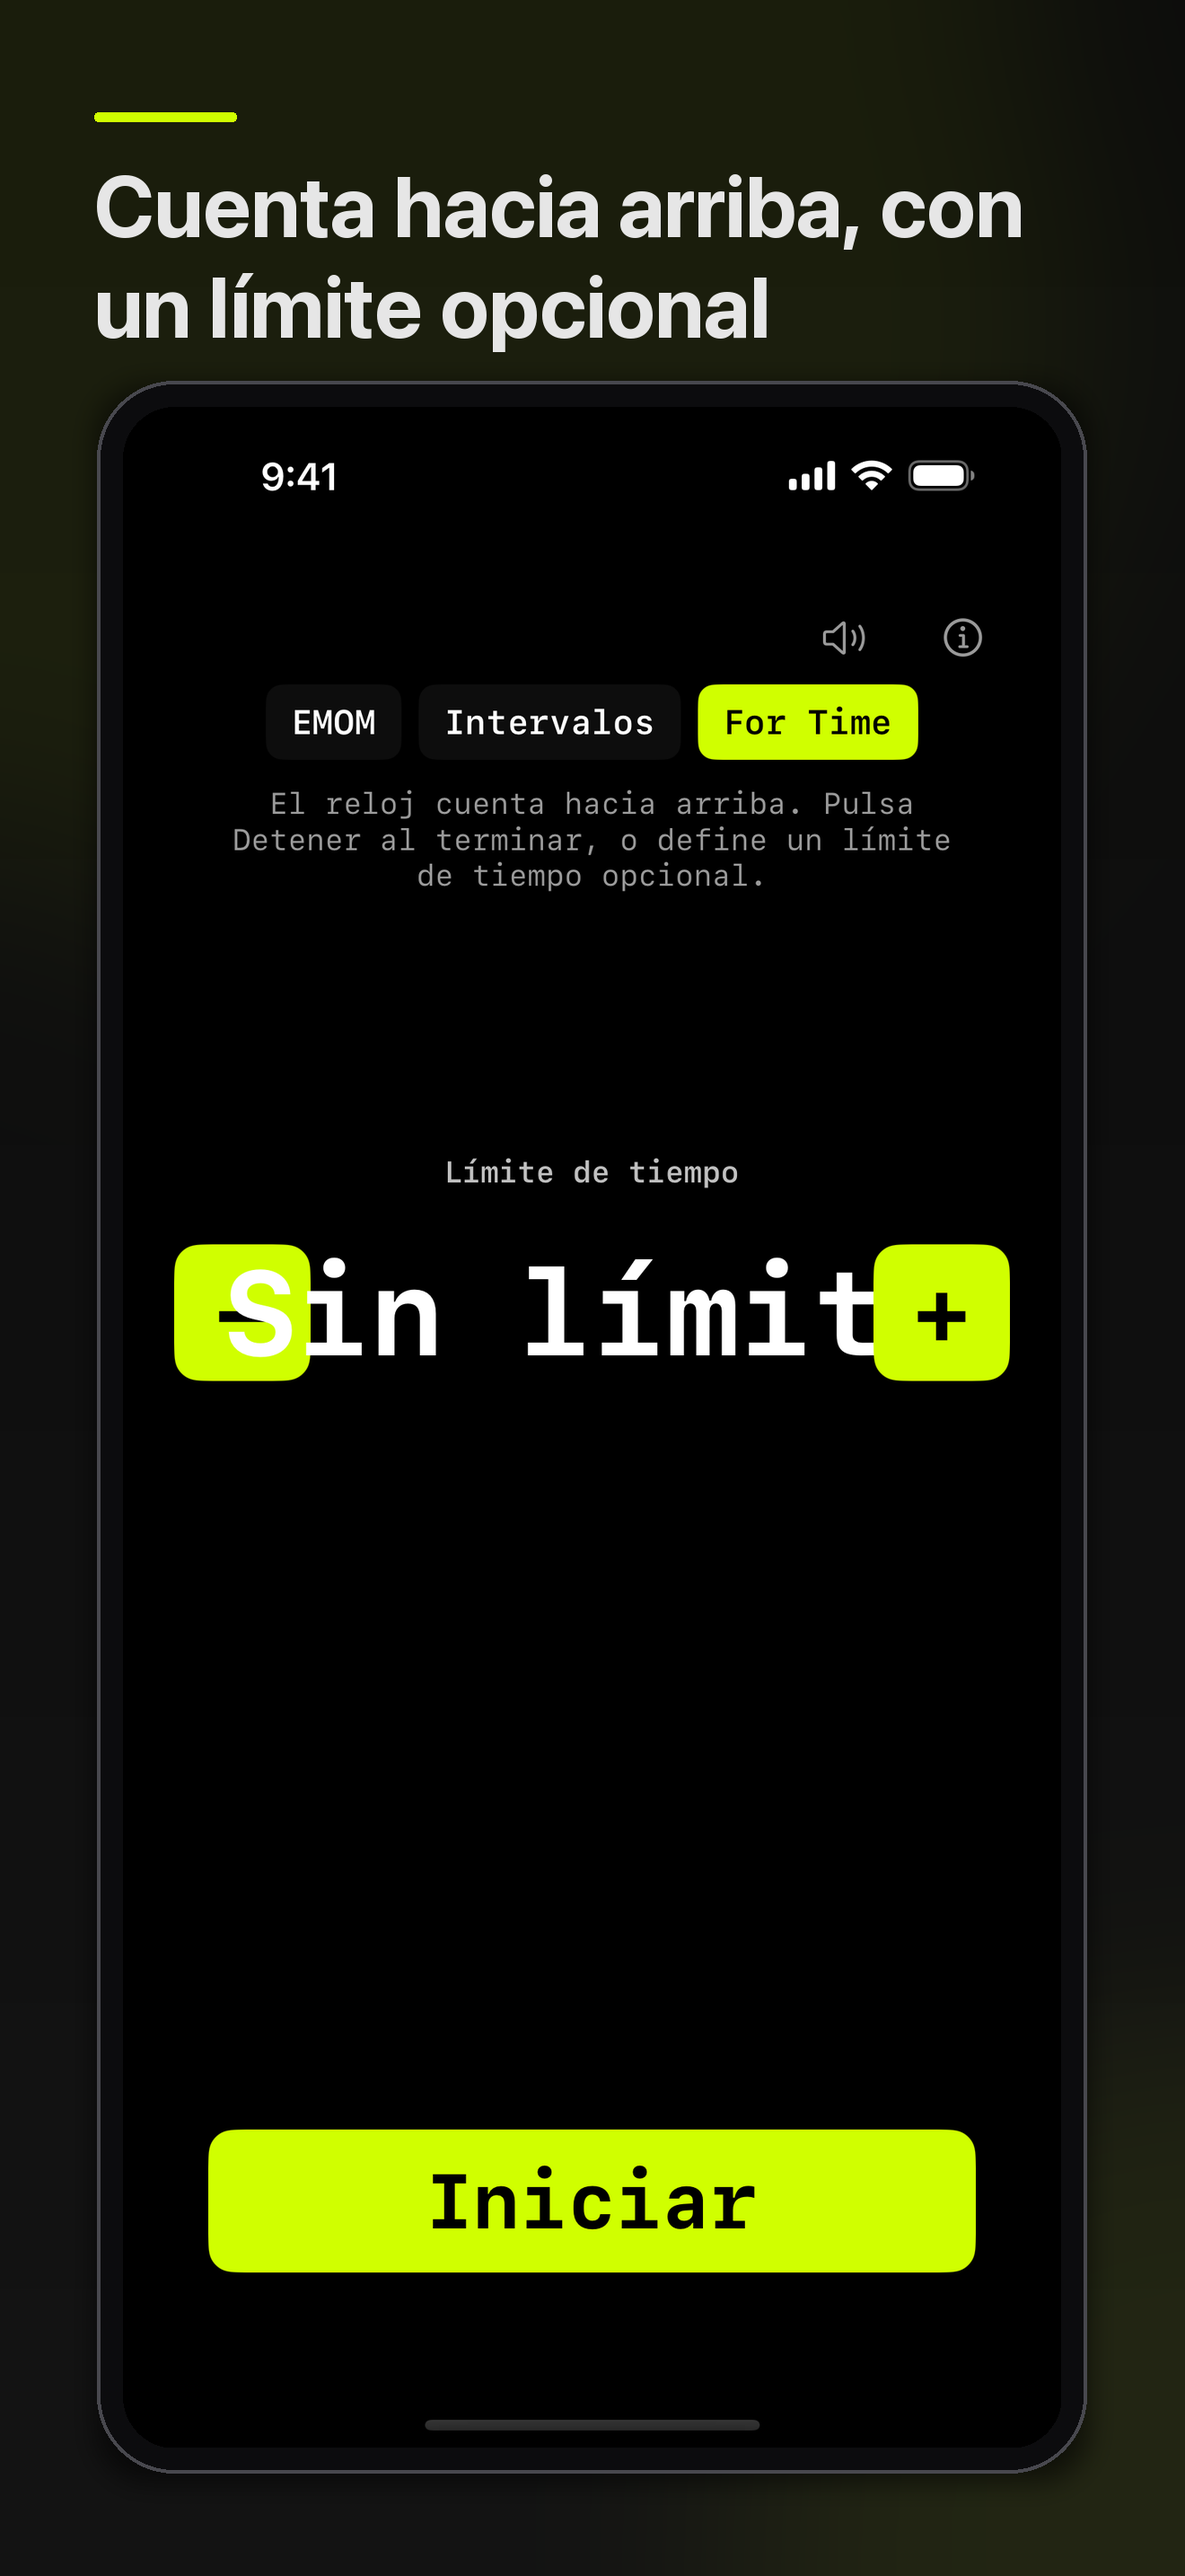
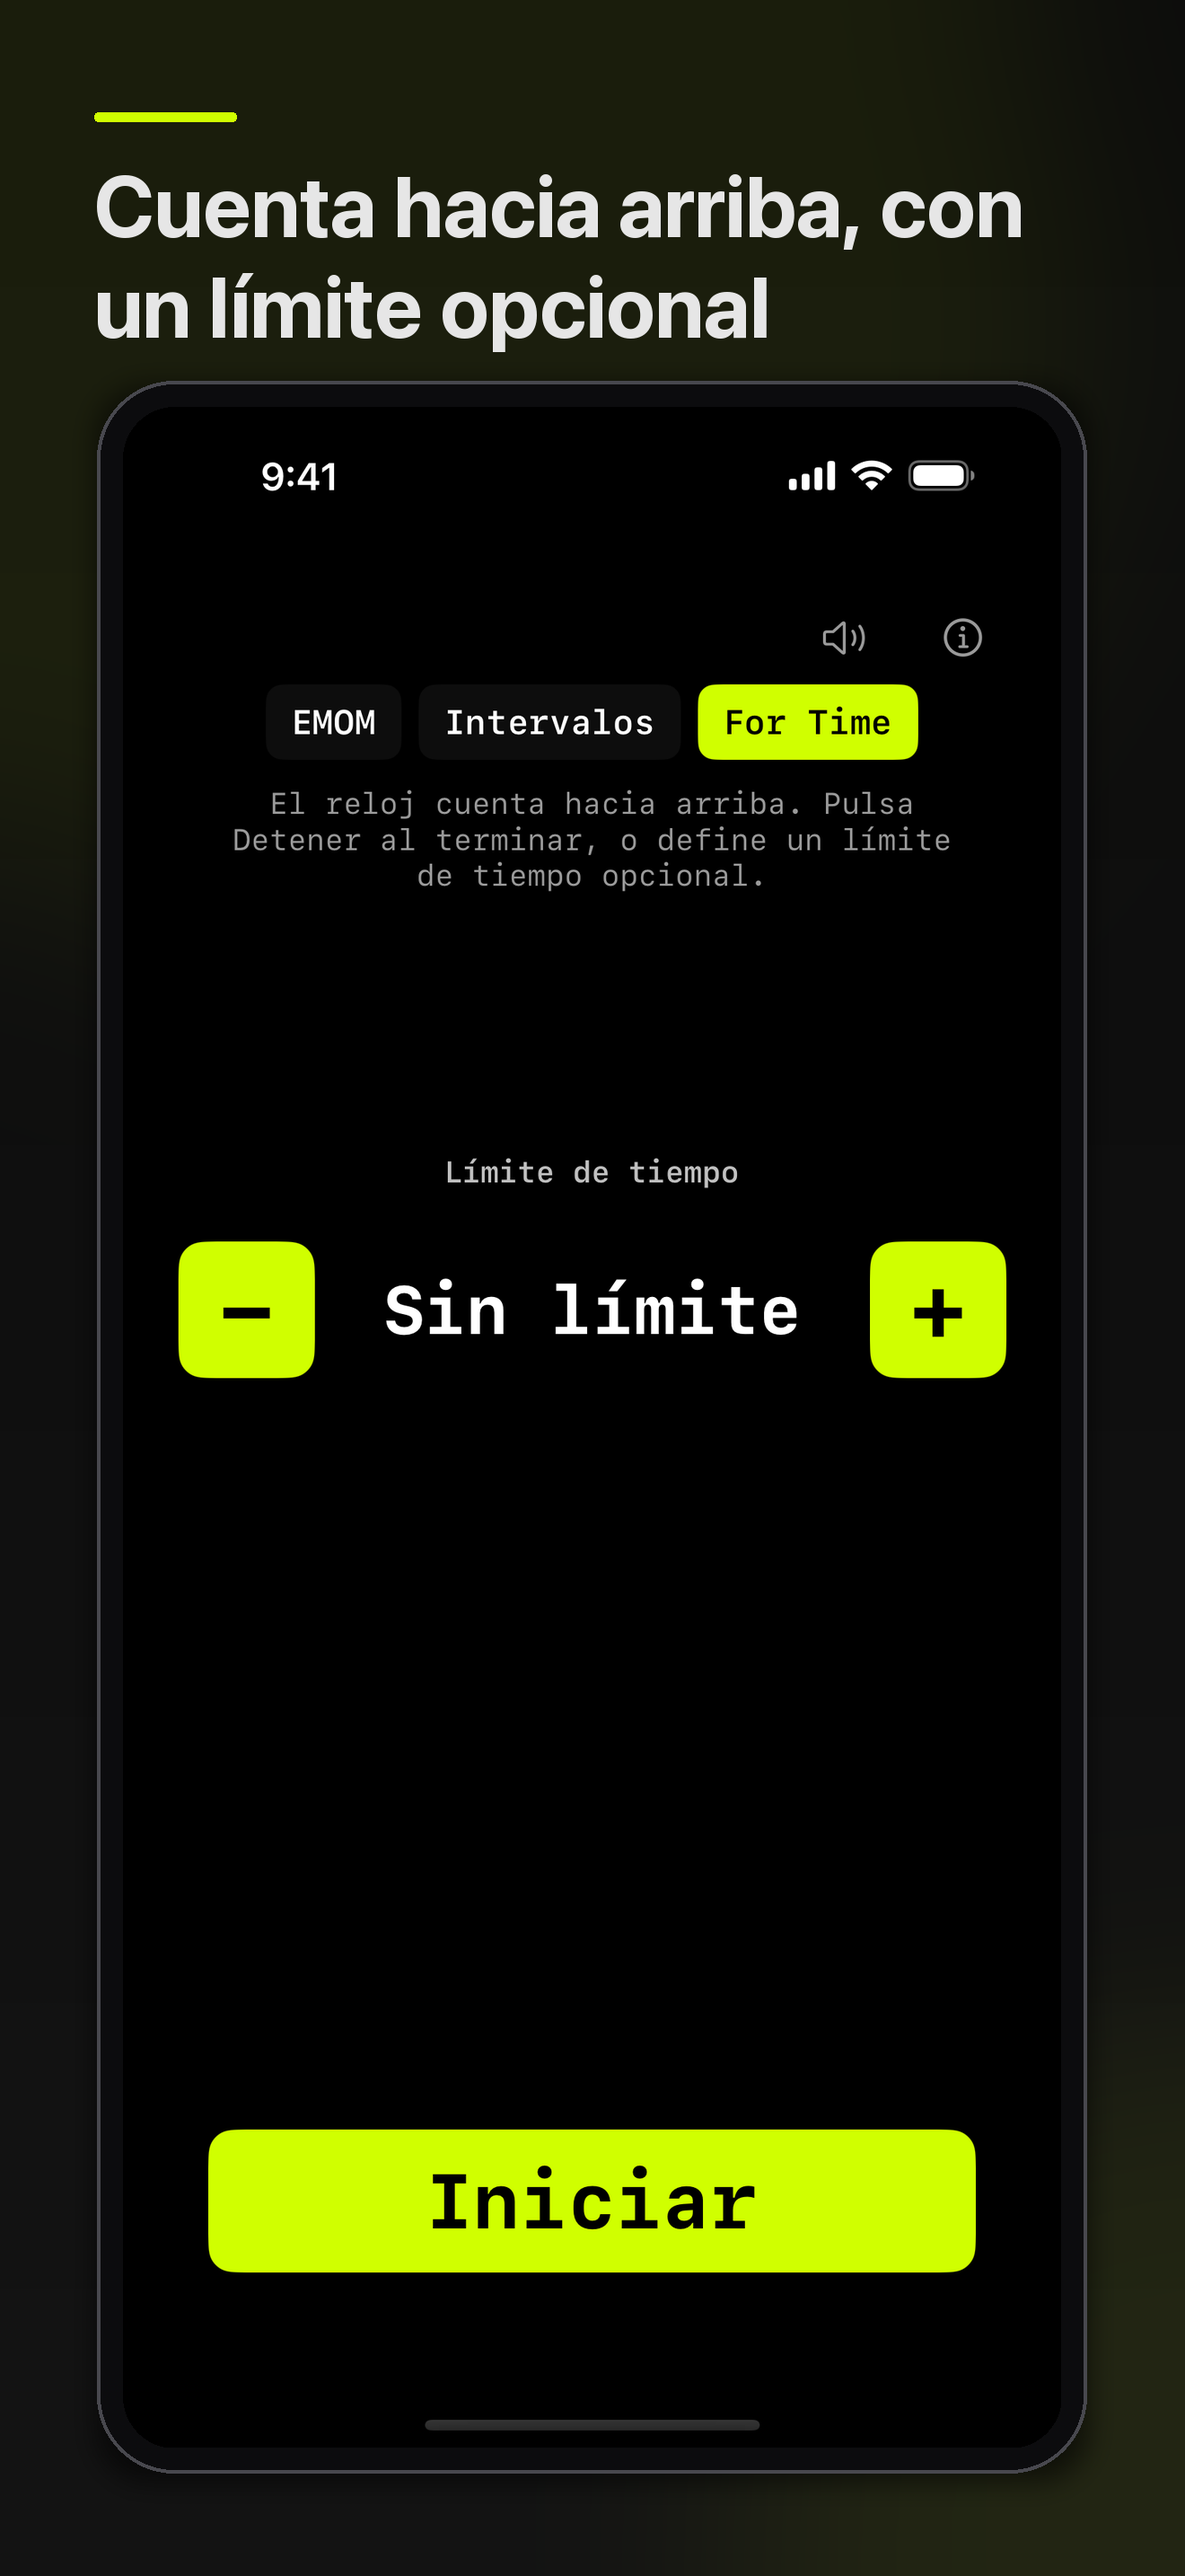
Fix a stepper value overflowing its own buttons
The time-cap value was pinned with fixedSize(horizontal:), so it always rendered
at its text's ideal width. That is fine for "01:00" and wrong for anything
longer: the Danish "Ingen grænse" ran straight through the plus and minus
buttons at full title size. Jarl spotted it in a screenshot and asked the right
question, whether the bug was in the poster or the app. It was the app.

Values now shrink to fit rather than overflow, which protects every locale
rather than just the two we happen to ship. The Danish value is also shortened
to "Ingen", since the label above it already reads "Tidsgrænse".

Verified in all three languages: English "No cap", Danish "Ingen" and Spanish
"Sin límite" all sit between the buttons now. Screenshots recomposed.

diff --git a/WODrounds/SharedTimerViews.swift b/WODrounds/SharedTimerViews.swift
@@ -194,7 +194,10 @@ struct SharedStepperView: View {
                     .monospacedDigit()
                     .foregroundStyle(DesignTokens.Common.Text.primary(scheme))
                     .lineLimit(1)
-                    .fixedSize(horizontal: true, vertical: false)
+                    // Shrink rather than overflow. fixedSize used to pin this to the
+                    // text's ideal width, which is fine for "01:00" but sent longer
+                    // localized values ("Ingen grænse") straight through the +/- buttons.
+                    .minimumScaleFactor(0.4)
                     .frame(minWidth: displayString != nil ? max(theme.buttonSize * 2, theme.valueFontSize * 1.9) : theme.buttonSize * 2)
                     .padding(.horizontal, displayString != nil ? DesignTokens.Spacing.lg : 0)
                     .accessibilityLabel(label)

diff --git a/CHANGELOG.md b/CHANGELOG.md
@@ -6,6 +6,7 @@ All notable user-facing changes to WODrounds. Newest first.
 
 - **Added:** the app is now available in **Danish and Spanish (es-MX)**, alongside English. Every screen, button and help text is translated on iPhone, iPad, Mac, Apple TV and Apple Watch.
 - **Changed:** new voice recordings for the spoken cues (get ready, rounds remaining, completion). The audio stays English in every language, because these are recorded voice files.
+- **Fixed:** a stepper value could run straight through the +/- buttons. The value was pinned to its text's ideal width, which suits "01:00" but not a longer word, so the Danish and Spanish "No cap" overflowed the control. Values now shrink to fit instead.
 - **Fixed:** several labels never translated even when a translation existed. SwiftUI shows a plain `String` verbatim, so the mode names, stepper labels, button titles, help text and the round counter were hard-wired to English. They now go through `LocalizedStringKey`.
 
 ## 1.6.1 (build 17)
